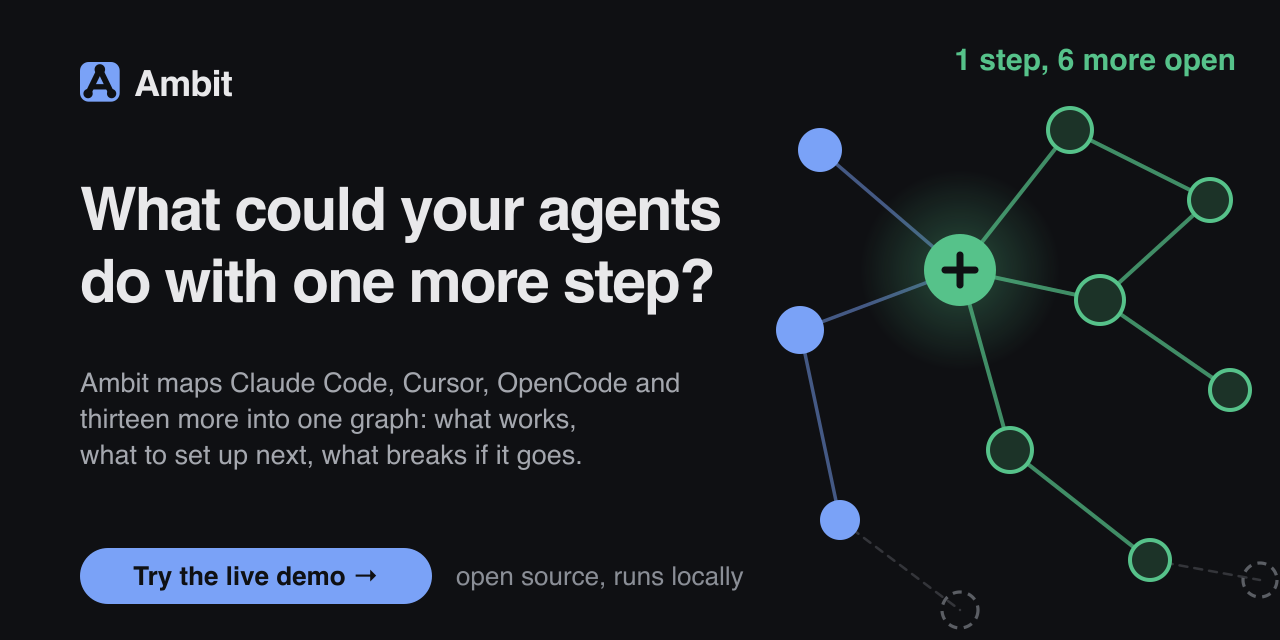
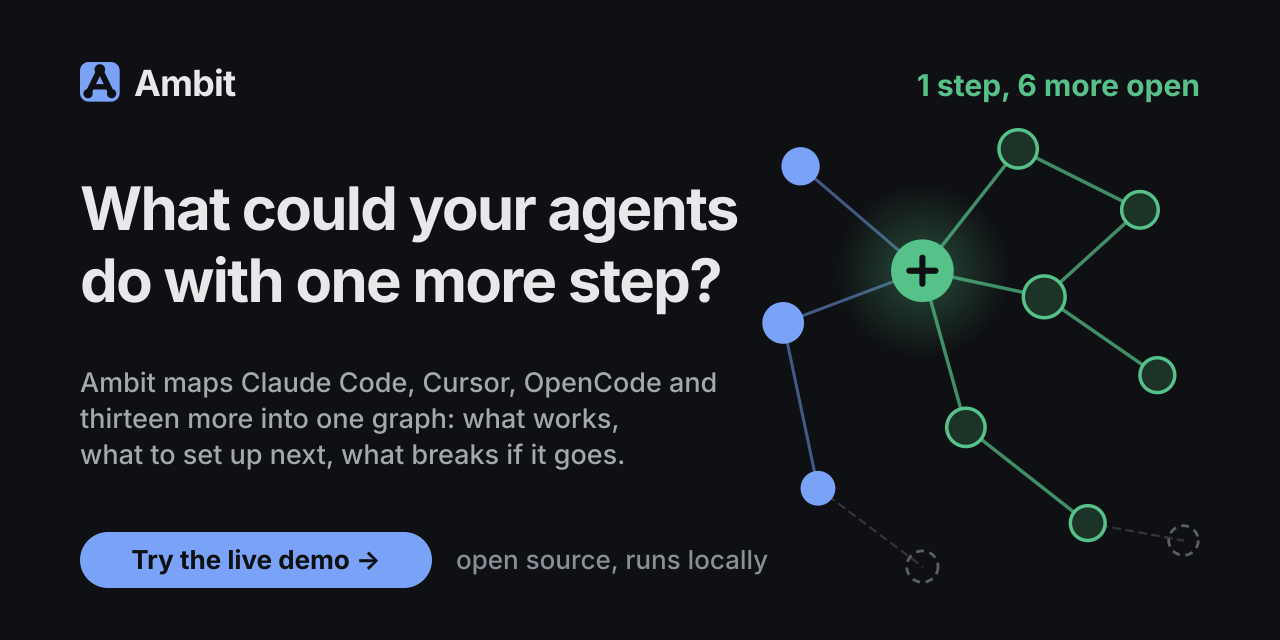
Keep the social preview's graph inside its edges
The graph on the social card ran to x=1279 and y=630, so a link unfurl
that trims about 30px off each side showed nodes cut in half. The card
now scales the graph into a box 80px from the right and 56px from the
bottom, moves the "1 step, 6 more open" label onto the brand row, and
lifts the demo button 16px, so everything sits at least 64px from the
sides and 48px from the top and bottom. The doc cards keep the
full-bleed graph behind their text.

Claude-Session: https://claude.ai/code/session_01DcfMrwoJebtJQPvPudgUjz

diff --git a/scripts/generate-scenes.ts b/scripts/generate-scenes.ts
@@ -158,8 +158,9 @@ function wrap(text: string, width: number, max: number): string[] {
 type Node = { x: number; y: number; r: number; down?: boolean; lost?: boolean; frontier?: boolean };
 
 /**
- * Hand-placed, in loose columns with uneven rows: a map is irregular and it
- * runs off the edges of its frame. The failed node sits where the eye lands
+ * Hand-placed, in loose columns with uneven rows: a map is irregular, and on
+ * the doc cards it runs off the edges of its frame (the social card scales it
+ * inside, see `SOCIAL_GRAPH_BOX`). The failed node sits where the eye lands
  * first on the right half, and what it takes with it fans out to its right.
  */
 const NODES: Record<string, Node> = {
@@ -261,11 +262,36 @@ const GROUND = `<defs>
 const BRAND = `<g transform="translate(80, 62) scale(0.62)">${plated(14)}</g>
     <text x="134" y="96" font-family="${FONT}" font-size="36" font-weight="700" fill="${INK}" letter-spacing="-0.8">Ambit</text>`;
 
+/**
+ * The box the social card's graph is scaled into, inside the card's safe
+ * frame: 64px from the sides and 48px from the top and bottom, with room left
+ * above for the label and to the left for the headline.
+ *
+ * The graph used to run to 1279 across and 630 down, which reads as cut off
+ * once an unfurl trims the card. Slack, LinkedIn and iMessage take about 30px
+ * off each side of a 2:1 image. The doc
+ * cards keep the full-bleed graph, faint behind their text, where a cut node
+ * reads as background.
+ */
+const SOCIAL_GRAPH_BOX = { right: 1200, top: 128, bottom: 584 };
+
+/** A transform that fits every node of the graph, stroke included, into `box`. */
+function fitGraph(box: typeof SOCIAL_GRAPH_BOX): string {
+  const nodes = Object.values(NODES);
+  const pad = 2; // half the widest node stroke
+  const minY = Math.min(...nodes.map(n => n.y - n.r - pad));
+  const maxY = Math.max(...nodes.map(n => n.y + n.r + pad));
+  const maxX = Math.max(...nodes.map(n => n.x + n.r + pad));
+  const s = (box.bottom - box.top) / (maxY - minY);
+  const round = (v: number) => Math.round(v * 100) / 100;
+  return `translate(${round(box.right - maxX * s)} ${round(box.top - minY * s)}) scale(${round(s * 1000) / 1000})`;
+}
+
 function socialCard(): string {
   return `<svg xmlns="http://www.w3.org/2000/svg" width="1280" height="640" viewBox="0 0 1280 640">
     ${GROUND}
-    ${graph()}
-    <text x="1236" y="70" font-family="${FONT}" font-size="30" font-weight="700" fill="${OK}" text-anchor="end">1 step, ${Object.values(NODES).filter(n => n.lost).length} more open</text>
+    <g transform="${fitGraph(SOCIAL_GRAPH_BOX)}">${graph()}</g>
+    <text x="${SOCIAL_GRAPH_BOX.right}" y="96" font-family="${FONT}" font-size="30" font-weight="700" fill="${OK}" text-anchor="end">1 step, ${Object.values(NODES).filter(n => n.lost).length} more open</text>
 
     ${BRAND}
 
@@ -280,9 +306,9 @@ function socialCard(): string {
       <tspan x="80" y="464">what to set up next, what breaks if it goes.</tspan>
     </text>
 
-    <rect x="80" y="548" width="352" height="56" rx="28" fill="${ACCENT}"/>
-    <text x="256" y="585" font-family="${FONT}" font-size="26" font-weight="650" fill="${CANVAS}" text-anchor="middle">Try the live demo →</text>
-    <text x="456" y="585" font-family="${FONT}" font-size="26" font-weight="500" fill="${QUIET}">open source, runs locally</text>
+    <rect x="80" y="532" width="352" height="56" rx="28" fill="${ACCENT}"/>
+    <text x="256" y="569" font-family="${FONT}" font-size="26" font-weight="650" fill="${CANVAS}" text-anchor="middle">Try the live demo →</text>
+    <text x="456" y="569" font-family="${FONT}" font-size="26" font-weight="500" fill="${QUIET}">open source, runs locally</text>
   </svg>`;
 }
 
